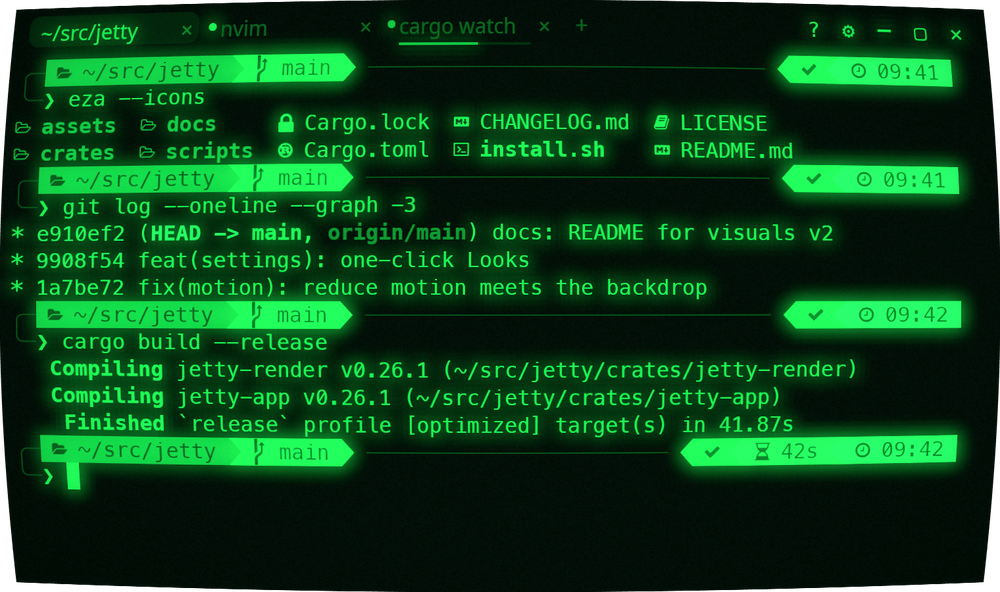
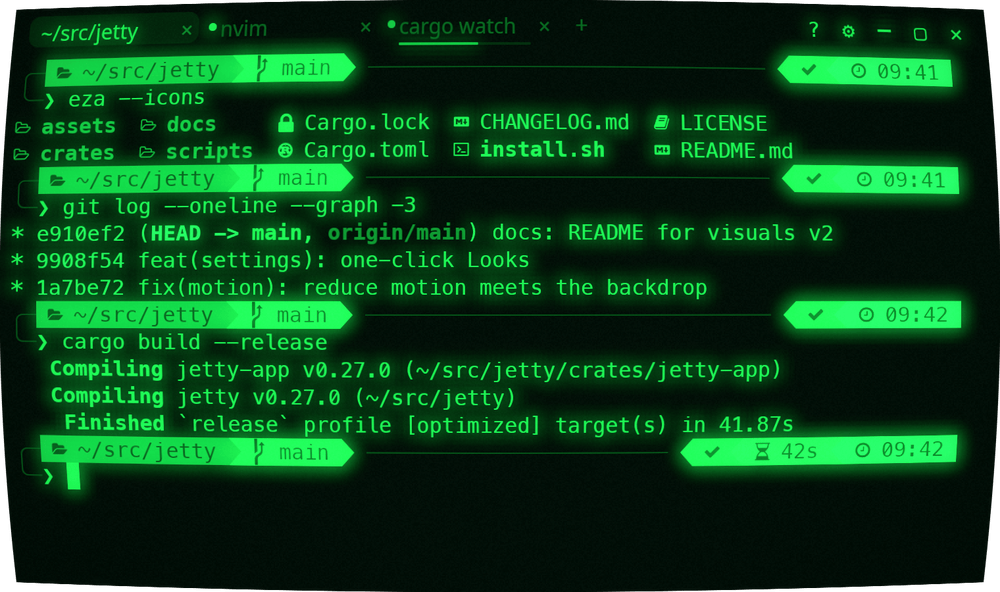
release: v0.27.0 — visuals v2 (one-click Looks, 46 themes, backdrops, cursor, summon reveals, tabs, Settings)
See docs/release-notes/v0.27.0.md. The CHANGELOG gains the cursor, motion,
summon and Looks entries that landed after it was written, and the fixes
that came with them (the Phosphor reveal played upside down since v0.1.0;
CRT dropped during Focus/Liquid reveals; the caret flash vanished on light
themes).

The README's sample build log reads the version from Cargo.toml, so the
screenshots show 0.27.0; only the images that contain it changed.

Checked live before tagging: the release binary on a nested X server
(lavapipe, KWin) starts as 0.27.0 with 46 themes, and idles at 10 ms of CPU
per 10 s, shown or hidden.

Claude-Session: https://claude.ai/code/session_018rMtUwjGXA9PqrS7RQ15Qg

Changed region(s): [[0.248, 0.5777, 0.868, 0.6993]]

diff --git a/scripts/readme-shots/content.py b/scripts/readme-shots/content.py
@@ -6,6 +6,8 @@ The user and host are neutral (`dev@jetty`, `~/src/jetty`).
 """
 
 import math
+import os
+import re
 
 E = "\x1b"
 
@@ -120,11 +122,18 @@ def bat(cols, path="crates/jetty-app/src/motion.rs"):
     return out
 
 
+def jetty_version():
+    """The version in the repo's Cargo.toml, so the sample build log stays current."""
+    path = os.path.join(os.path.dirname(os.path.abspath(__file__)), "..", "..", "Cargo.toml")
+    with open(path) as f:
+        return re.search(r'^version = "([^"]+)"', f.read(), re.M).group(1)
+
+
 def cargo_build():
-    gb = sgr(1, 32)
+    gb, v = sgr(1, 32), jetty_version()
     return [
-        f"{gb}   Compiling{R} jetty-render v0.26.1 (~/src/jetty/crates/jetty-render)",
-        f"{gb}   Compiling{R} jetty-app v0.26.1 (~/src/jetty/crates/jetty-app)",
+        f"{gb}   Compiling{R} jetty-app v{v} (~/src/jetty/crates/jetty-app)",
+        f"{gb}   Compiling{R} jetty v{v} (~/src/jetty)",
         f"{gb}    Finished{R} `release` profile [optimized] target(s) in 41.87s",
     ]
 

diff --git a/docs/release-notes/v0.27.0.md b/docs/release-notes/v0.27.0.md
@@ -1,0 +1,105 @@
+# JeTTY v0.27.0
+
+**Visuals v2 — one-click Looks, 46 themes, backdrops, cursor styles, new summon
+reveals, tab styles and a rebuilt Settings window. Just as fast.**
+
+![JeTTY in its default look: Catppuccin Mocha, a powerlevel10k prompt, tabs with activity badges and a progress bar](https://raw.githubusercontent.com/bozdemir/JeTTY/v0.27.0/assets/screenshots/hero.png)
+
+## Looks
+
+Settings › Look opens with a row of looks. One click sets a theme, an effects
+preset, a backdrop, the summon reveal and the cursor together:
+
+| Look | |
+|---|---|
+| **Amber VT** | Amber phosphor CRT, block cursor |
+| **P1 Green** | Green phosphor CRT, block cursor |
+| **Trinitron** | Tokyo Night through a color CRT, Focus reveal |
+| **Neon Night** | Synthwave '84 with a neon glow over a synthwave grid, Pop reveal, cursor trail |
+| **Aurora** | Tokyo Night Storm over an aurora, Glide reveal, cursor trail |
+| **Paper** | Flexoki Light with paper grain, Fade reveal |
+| **Clean** | The defaults — keeps your theme |
+
+They're in the command palette as well (`Look: …`). Change anything afterwards
+and the row reads "Custom".
+
+<img src="https://raw.githubusercontent.com/bozdemir/JeTTY/v0.27.0/assets/screenshots/look-neon-night.png" alt="The Neon Night look" width="32%"> <img src="https://raw.githubusercontent.com/bozdemir/JeTTY/v0.27.0/assets/screenshots/look-aurora.png" alt="The Aurora look" width="32%"> <img src="https://raw.githubusercontent.com/bozdemir/JeTTY/v0.27.0/assets/screenshots/look-amber-vt.png" alt="The Amber VT look" width="32%">
+
+## What's new
+
+- **46 themes, 11 of them light** — 24 new, with exact upstream palettes, and
+  a theme gallery in Settings that previews as you arrow through it.
+  **Follow the system light/dark setting** (`follow_system_theme`,
+  `light_theme`), and `minimum_contrast` lifts unreadable text.
+- **Backdrop** — a subtle per-theme look, gradients, your own image (frosted
+  if you like, no compositor needed) or a pattern: stars, aurora, grid,
+  synthwave. Baked once, then a copy per frame (~0.2–0.4 ms GPU at 1440p).
+- **Effects** — presets (Retro CRT, Amber, Green Phosphor, Neon, Paper,
+  E-ink), phosphor colors, film grain, a bloom radius, an optional glitch on a
+  failed command. The CRT pass itself is ~45% faster.
+- **Cursor** — five shapes, thickness, a faint row guide, and a trail that
+  smears when the cursor jumps (never while you type).
+- **Summon reveals** — Pop, Glide and Fade join Phosphor, Bayer, Liquid and
+  Focus; the Dropdown strip now slides in with its real edge and corners.
+- **Motion** — `reduce_motion` (off / on / follow the desktop) calms every
+  animation; a visual bell (flash or rim) and a glow along the window edge
+  when a command fails.
+- **Tabs** — five styles, per-tab colors, finished/failed/bell badges, and
+  progress bars from programs that report it (OSC 9;4: Claude Code, cargo).
+- **Built-in glyphs** — box drawing, blocks, Powerline separators, braille
+  and sextants are drawn by JeTTY, cell-exact: no seams in powerlevel10k
+  prompts, tmux borders or btop graphs (and a btop-like screen renders 2×
+  faster).
+- **Settings rebuilt** — every tab scrolls, sections fold, Reset tab, and
+  every control is a palette search away ("bloom" → *Settings › Effects ›
+  Bloom*).
+
+## Changed by default
+
+- **Inner padding** (8 px at the sides, 4 px top and bottom) — text no longer
+  touches the window edge. `padding_x = 0` / `padding_y = 0` brings back the
+  old layout.
+- **Built-in glyphs** are on — `builtin_glyphs = false` goes back to the
+  font's.
+- Faint text blends toward the background, underlines sit at the font's
+  underline position, and menus, pills and the scrollbar read on every theme.
+
+Everything else new is off until you turn it on — or pick a Look.
+
+## Fixed
+
+- The default **Phosphor** reveal had played upside down since v0.1.0; it
+  reveals top-down again.
+- With CRT on, the Focus and Liquid reveals dropped the CRT look until they
+  ended.
+- The caret flash made the cursor vanish on light themes.
+- Text drifted off the grid at fractional font sizes; bold box-drawing
+  characters showed as empty boxes; the scrollbar was mis-sized on 2×
+  displays; the launch splash covered a two-line prompt.
+
+## Speed
+
+Typing and scrolling frames cost the same as v0.26.1 (0.49 ms CPU at 240×70),
+throughput is unchanged, and an idle JeTTY still uses 0% CPU. Effects you
+don't use are never built. Measured as a round-robin of v0.26.1, nine merge
+points and this release — `docs/perf-budget.md`.
+
+Full list: [CHANGELOG](https://github.com/bozdemir/JeTTY/blob/v0.27.0/CHANGELOG.md).
+
+## Install
+
+```bash
+curl -fsSL https://raw.githubusercontent.com/bozdemir/JeTTY/main/install.sh | sh
+```
+
+Or a `.deb` / **AppImage** from the assets below (the installer verifies
+`SHA256SUMS.txt`). Build from source: `cargo build --release`.
+
+## Artifacts
+
+| File | What |
+|---|---|
+| `jetty-0.27.0-x86_64-linux.tar.gz` | Portable Linux binary + assets |
+| `jetty_0.27.0_amd64.deb` | Debian / Ubuntu package |
+| `JeTTY-0.27.0-x86_64.AppImage` | Universal Linux AppImage |
+| `SHA256SUMS.txt` | Checksums |

diff --git a/CHANGELOG.md b/CHANGELOG.md
@@ -7,14 +7,21 @@ and this project adheres to [Semantic Versioning](https://semver.org/spec/v2.0.0
 
 ---
 
-## [Unreleased] — visuals v2
+## [0.27.0] — 2026-10-09
 
-New themes, a background layer, a faster and richer effects pass, built-in box
-glyphs, tab styles and a rebuilt Settings window. Everything new is off by
-default unless listed under "Changed". Plan:
+**Visuals v2.** One-click Looks, new themes, a background layer, a faster and
+richer effects pass, built-in box glyphs, cursor styles, new summon reveals,
+tab styles and a rebuilt Settings window — with typing and scrolling frames as
+fast as v0.26.1 (`docs/perf-budget.md`). Everything new is off by default
+unless listed under "Changed". Plan:
 `docs/superpowers/plans/2026-10-08-visuals-v2.md`.
 
 ### Added
+- **Looks** — one-click bundles at the top of Settings › Look and as
+  `Look: …` in the command palette: Amber VT, P1 Green, Trinitron, Neon Night,
+  Aurora, Paper and Clean. A look sets a theme, an effects preset, a backdrop,
+  the summon effect and the cursor in one go; Clean is the defaults and keeps
+  your theme. A look's chip stays lit while every key it set still holds.
 - **24 new themes (46 in all, 11 light):** Catppuccin Latte/Frappé, Tokyo
   Night Storm/Moon/Day, Rosé Pine Moon/Dawn, Gruvbox Light, GitHub Light,
   Alucard (Dracula Light), Flexoki Light/Dark, Everforest Light, Kanagawa
@@ -42,6 +49,22 @@ default unless listed under "Changed". Plan:
   (amber/green/white/blue/paper/custom, with "keep colors"), film grain, a 1-bit
   dither "e-ink" look, a bloom radius, and an optional 200 ms glitch on a
   failed command or the bell.
+- **Cursor** (`[cursor]`): `shape` (block / beam / underline /
+  double_underline / thick_underline — a program's own cursor request still
+  wins), `thickness`, `unfocused` (hollow / unchanged / none), `color` (theme /
+  cell / auto), a faint row `guide` (off / shell / always), and an optional
+  **trail** (`trail`, `trail_ms`, `trail_threshold`) that smears from where the
+  cursor sat when it jumps — never while you type.
+- **Summon reveals:** Pop, Glide and Fade join Phosphor, Bayer, Liquid and
+  Focus (`summon_effect`). The Dropdown strip itself now slides in, with its
+  real bottom edge and rounded corners.
+- **Motion and alerts:** `reduce_motion` = off / on / system (system follows
+  the desktop) calms every animation JeTTY owns — reveals become a short fade,
+  the Dropdown appears docked, the CRT holds still, no glitch or trail, a still
+  backdrop. `visual_bell` = off / flash / rim. `command_pulse` = off /
+  failures / all — a brief glow along the window edge when a command fails (or
+  a long one succeeds), played on the next summon if JeTTY was hidden. Palette
+  commands for each, and for the cursor shape, trail and guide.
 - **Tabs:** five styles (`tab_style` = pill / underline / slant / powerline /
   compact), close-button modes, a translucent tab bar, per-tab colors (tab
   menu › Color), smart titles (`tab_title = "auto"`), finished/failed/bell
@@ -69,7 +92,11 @@ default unless listed under "Changed". Plan:
   graphs); `builtin_glyphs = false` goes back to the font's glyphs.
 - **Faint text** blends toward the background (it got darker — more prominent —
   on light themes).
-- Underlines sit at the font's underline position (about 1 px higher).
+- Underlines — and the underline cursor — sit at the font's underline
+  position (about 1 px higher).
+- The Phosphor reveal's scan line takes the theme's UI accent.
+- Startup builds no summon pipeline; the first summon builds only the chosen
+  effect. CRT, backdrop, glow, trail and rim passes are built only when used.
 - The CRT pass is rebuilt: ~45% faster on the owner's look (1.59 → 0.86 ms at
   1440p on an Intel iGPU), pixel-identical to the eye; bloom is keyed to
   brightness above the background (light themes no longer wash out); CRT
@@ -89,6 +116,16 @@ default unless listed under "Changed". Plan:
 - The scrollbar was mis-sized on 2× displays.
 - The launch splash covered a two-line prompt's input line.
 - Tokyo Night's bright colors and Everforest Dark's brights were off upstream.
+- The default Phosphor reveal had played upside down since v0.1.0: the window
+  sat dark above the scan line and popped in at the end. It reveals top-down
+  again.
+- With CRT on, the Focus and Liquid reveals showed the plain frame and the
+  scanlines snapped back when they ended; the CRT look now stays on through
+  every reveal.
+- The caret flash made the cursor vanish on light themes (a white flash on a
+  near-white page); it now turns black or white when the configured color
+  wouldn't show. The caret glow has a variant for light pages and works in
+  detached windows too.
 
 ## [0.26.1] — 2026-10-08
 
